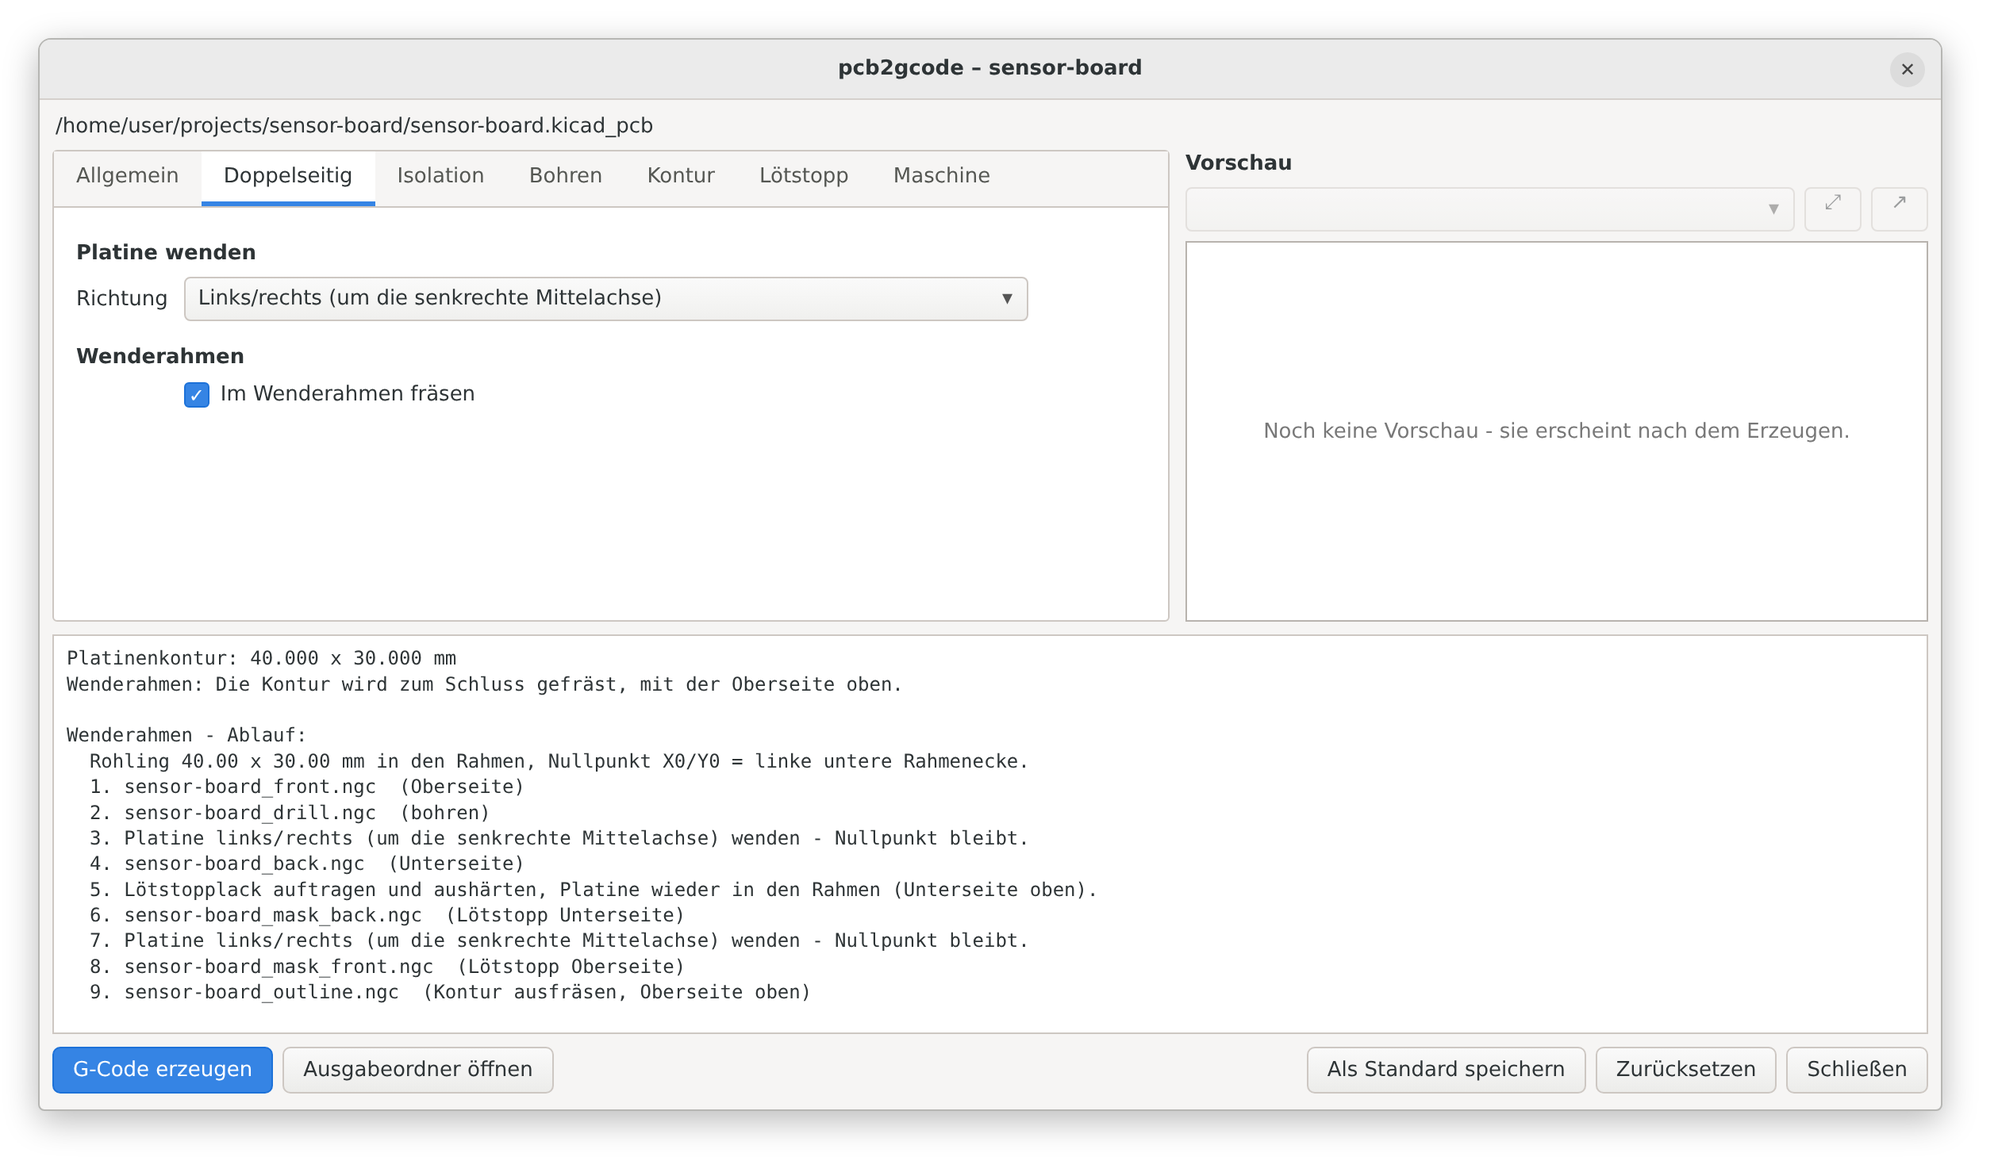
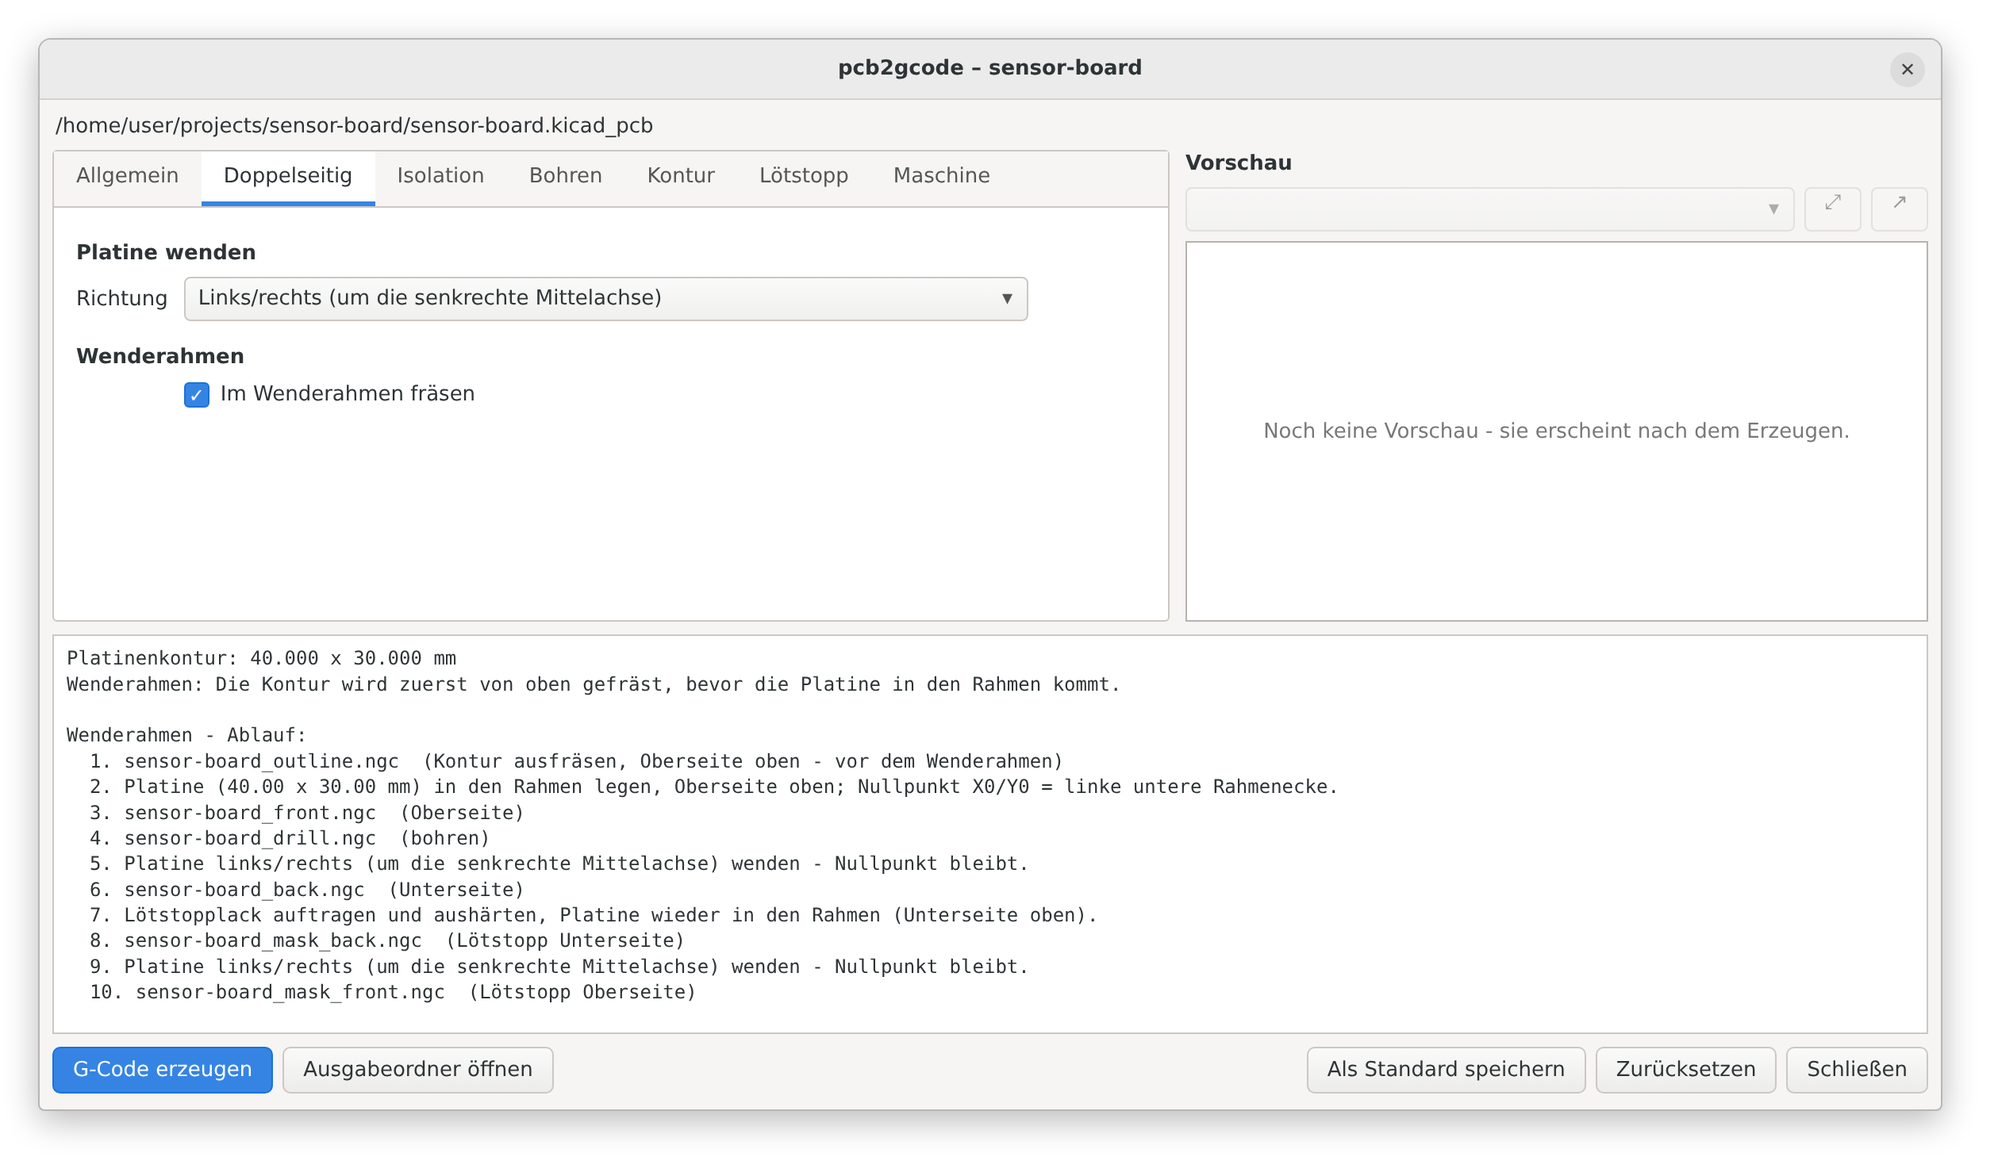
Flip frame: cut the outline first, before the board goes into the frame
The board is cut out of a larger blank from the top, then put into the
frame top side up; copper, holes and solder mask follow as before.

Claude-Session: https://claude.ai/code/session_01PpFE8sBd2hR1uK4Xvk6eWU

Changed region(s): [[0.062, 0.6204, 0.6505, 0.8685], [0.2168, 0.5583, 0.4337, 0.5893], [0.4647, 0.5583, 0.5576, 0.5893]]

diff --git a/plugin/kicad_pcb2gcode/job.py b/plugin/kicad_pcb2gcode/job.py
@@ -330,33 +330,13 @@ def prepare_inputs(req: JobRequest, log: Log) -> "tuple[Inputs, str, Dict[str, O
             mask_inputs = None
 
     if g.frame_mode and inputs.outline:
-        inputs.cut_side = frame_final_side(inputs, mask_inputs)
-        log(tr("Flip frame: the outline is cut last, with the {} up.",
-               "Wenderahmen: Die Kontur wird zum Schluss gefräst, mit der {} oben.").format(_side_name(inputs.cut_side)))
+        # The outline comes first: the board is cut out of the blank, from the
+        # top, before it goes into the frame.
+        inputs.cut_side = "front"
+        log(tr("Flip frame: the outline is cut first, from the top, before the board goes into the frame.",
+               "Wenderahmen: Die Kontur wird zuerst von oben gefräst, bevor die Platine in den Rahmen kommt."))
 
     return inputs, chosen, {"npth": npth_inputs, "mask": mask_inputs}
-
-
-def _side_name(side: str) -> str:
-    return tr("top side", "Oberseite") if side == "front" else tr("bottom side", "Unterseite")
-
-
-def _mask_order(inputs: Inputs, mask_inputs: Optional[Inputs]) -> List[str]:
-    """Mask sides in flip-frame order: the board comes back into the frame
-    the way it left the machine, so after milling the bottom it starts there."""
-    if mask_inputs is None:
-        return []
-    order = ["back", "front"] if inputs.back else ["front", "back"]
-    return [side for side in order if getattr(mask_inputs, side)]
-
-
-def frame_final_side(inputs: Inputs, mask_inputs: Optional[Inputs]) -> str:
-    """Side facing up in the flip frame after copper, holes and solder mask -
-    the outline is cut from there, so the board is not turned once more."""
-    masks = _mask_order(inputs, mask_inputs)
-    if masks:
-        return masks[-1]
-    return "back" if inputs.back else "front"
 
 
 def _job_name(path: str) -> str:
@@ -371,7 +351,8 @@ def _job_name(path: str) -> str:
 def frame_steps(files: List[str], inputs: Inputs, flip_axis: str) -> List[str]:
     """Operator instructions for the flip frame, in machining order.
 
-    Copper and holes first. The solder mask is applied afterwards; the board
+    The outline is cut first, out of a larger blank, before the board goes
+    into the frame. Then copper and holes. The solder mask is applied afterwards; the board
     goes back into the frame with the bottom up (as it came off the machine),
     the bottom openings are milled, the board is turned and the top openings
     follow."""
@@ -381,13 +362,22 @@ def frame_steps(files: List[str], inputs: Inputs, flip_axis: str) -> List[str]:
     flip = (tr("left/right (about the vertical centre line)", "links/rechts (um die senkrechte Mittelachse)")
             if flip_axis == "leftright" else
             tr("top/bottom (about the horizontal centre line)", "oben/unten (um die waagerechte Mittelachse)"))
-    lines = [
-        tr("Flip frame - order of work:", "Wenderahmen - Ablauf:"),
-        tr("  Blank {} in the frame, origin X0/Y0 = lower-left corner of the frame.",
-           "  Rohling {} in den Rahmen, Nullpunkt X0/Y0 = linke untere Rahmenecke.").format(size),
-    ]
-    first = [j for j in ("front", "drill", "milldrill", "npth_drill", "npth_milldrill") if j in by_job]
+    lines = [tr("Flip frame - order of work:", "Wenderahmen - Ablauf:")]
     n = 1
+    if "outline" in by_job:
+        # cut the board out of the blank first, then it goes into the frame
+        lines.append("  {}. {}  ({})".format(n, by_job["outline"], tr(
+            "cut the outline, top side up - before the flip frame",
+            "Kontur ausfräsen, Oberseite oben - vor dem Wenderahmen")))
+        n += 1
+        lines.append("  {}. {}".format(n, tr(
+            "Put the board ({}) into the frame, top side up; origin X0/Y0 = lower-left corner of the frame.",
+            "Platine ({}) in den Rahmen legen, Oberseite oben; Nullpunkt X0/Y0 = linke untere Rahmenecke.").format(size)))
+        n += 1
+    else:
+        lines.append(tr("  Blank {} in the frame, origin X0/Y0 = lower-left corner of the frame.",
+                        "  Rohling {} in den Rahmen, Nullpunkt X0/Y0 = linke untere Rahmenecke.").format(size))
+    first = [j for j in ("front", "drill", "milldrill", "npth_drill", "npth_milldrill") if j in by_job]
     split = "npth_drill" in by_job or "npth_milldrill" in by_job
     for job in first:
         label = {"front": tr("top side", "Oberseite"),
@@ -403,7 +393,6 @@ def frame_steps(files: List[str], inputs: Inputs, flip_axis: str) -> List[str]:
         n += 1
         lines.append("  {}. {}  ({})".format(n, by_job["back"], tr("bottom side", "Unterseite")))
         n += 1
-    up = "back" if "back" in by_job else "front"
     if "mask_front" in by_job or "mask_back" in by_job:
         bottom_up = "back" in by_job
         order = ["mask_back", "mask_front"] if bottom_up else ["mask_front", "mask_back"]
@@ -416,7 +405,6 @@ def frame_steps(files: List[str], inputs: Inputs, flip_axis: str) -> List[str]:
             "Lötstopplack auftragen und aushärten, Platine wieder in den Rahmen ({} oben).").format(
                 tr("bottom", "Unterseite") if first_up == "back" else tr("top", "Oberseite"))))
         n += 1
-        up = present[-1].split("_", 1)[1]
         for i, job in enumerate(present):
             if i == 1:
                 lines.append("  {}. {}".format(n, tr("Turn the board over {} - keep the origin.",
@@ -424,15 +412,6 @@ def frame_steps(files: List[str], inputs: Inputs, flip_axis: str) -> List[str]:
                 n += 1
             lines.append("  {}. {}  ({})".format(n, by_job[job], labels[job]))
             n += 1
-    if "outline" in by_job:
-        side = inputs.cut_side or up
-        if side != up:  # only when the files were made differently
-            lines.append("  {}. {}".format(n, tr("Turn the board over {} - keep the origin.",
-                                                "Platine {} wenden - Nullpunkt bleibt.").format(flip)))
-            n += 1
-        lines.append("  {}. {}  ({})".format(n, by_job["outline"], tr(
-            "cut the outline, {} up", "Kontur ausfräsen, {} oben").format(_side_name(side))))
-        n += 1
     return lines
 
 

diff --git a/tests/test_job.py b/tests/test_job.py
@@ -248,47 +248,34 @@ def test_flip_frame(board):
                      "my_board_mask_back.ngc", "my_board_mask_front.ngc", "my_board_outline.ngc"]
     millproject = open(result.millproject_path).read()
     assert "outline=cam/outline.gbr" in millproject
-    assert "cut-side=front" in millproject  # the top is up after the last mask step
+    assert "cut-side=front" in millproject  # cut out first, top side up
     assert "drill-side=front" in millproject
     assert "x-offset=0" in millproject and "mirror-axis=5" in millproject  # fake outline 10 x 10 mm
     steps = open(os.path.join(result.output_dir, "STEPS.txt")).read().splitlines()
     order = [line.split(".", 1)[1].strip() for line in steps if line.strip()[:2].rstrip(".").isdigit()]
-    assert order[0].startswith("my_board_front.ngc")
-    assert order[1].startswith("my_board_drill.ngc")
-    assert order[2].startswith("Turn the board over left/right")
-    assert order[3].startswith("my_board_back.ngc")
-    assert order[4].startswith("Apply and cure the solder mask") and "(bottom up)" in order[4]
-    assert order[5].startswith("my_board_mask_back.ngc")
-    assert order[6].startswith("Turn the board over left/right")
-    assert order[7].startswith("my_board_mask_front.ngc")
-    assert order[8] == "my_board_outline.ngc  (cut the outline, top side up)"
-    assert len(order) == 9
+    assert order[0] == "my_board_outline.ngc  (cut the outline, top side up - before the flip frame)"
+    assert order[1].startswith("Put the board (10.00 x 10.00 mm) into the frame, top side up")
+    assert order[2].startswith("my_board_front.ngc")
+    assert order[3].startswith("my_board_drill.ngc")
+    assert order[4].startswith("Turn the board over left/right")
+    assert order[5].startswith("my_board_back.ngc")
+    assert order[6].startswith("Apply and cure the solder mask") and "(bottom up)" in order[6]
+    assert order[7].startswith("my_board_mask_back.ngc")
+    assert order[8].startswith("Turn the board over left/right")
+    assert order[9].startswith("my_board_mask_front.ngc")
+    assert len(order) == 10
     assert any("Board outline: 10.000 x 10.000 mm" in line for line in log)
-    assert any("outline is cut last, with the top side up" in line for line in log)
+    assert any("outline is cut first, from the top" in line for line in log)
 
 
-def test_flip_frame_outline_side_follows_the_last_step(board):
-    from kicad_pcb2gcode.job import frame_final_side
-    from kicad_pcb2gcode.millproject import Inputs
-
-    both = Inputs(front="f", back="b")
-    assert frame_final_side(both, None) == "back"
-    assert frame_final_side(Inputs(front="f"), None) == "front"
-    assert frame_final_side(Inputs(back="b"), None) == "back"
-    assert frame_final_side(both, Inputs(front="mf", back="mb")) == "front"
-    assert frame_final_side(both, Inputs(front="mf")) == "front"
-    assert frame_final_side(both, Inputs(back="mb")) == "back"
-    assert frame_final_side(Inputs(front="f"), Inputs(front="mf", back="mb")) == "back"
-
+def test_flip_frame_outline_is_cut_from_the_top(board):
     s = Settings()
     s.general.frame_mode = True
     s.general.sides = "both"
+    s.outline.cut_side = "back"  # ignored in the frame
     s.mask.enabled = False
     result = run_job(request(board, s), lambda line: None)
-    assert "cut-side=back" in open(result.millproject_path).read()
-    steps = open(os.path.join(result.output_dir, "STEPS.txt")).read().splitlines()
-    assert steps[-2].strip().startswith("4. my_board_back.ngc")
-    assert steps[-1].strip() == "5. my_board_outline.ngc  (cut the outline, bottom side up)"
+    assert "cut-side=front" in open(result.millproject_path).read()
 
 
 def test_flip_frame_without_outline_cut(board):
@@ -299,6 +286,8 @@ def test_flip_frame_without_outline_cut(board):
     millproject = open(result.millproject_path).read()
     assert "outline=" not in millproject and "x-offset=" in millproject
     assert not any(f.endswith("_outline.ngc") for f in result.files)
+    steps = open(os.path.join(result.output_dir, "STEPS.txt")).read()
+    assert "Blank 10.00 x 10.00 mm in the frame" in steps
 
 
 def test_outline_defines_origin_even_when_not_cut(board):

diff --git a/plugin/kicad_pcb2gcode/form.py b/plugin/kicad_pcb2gcode/form.py
@@ -93,10 +93,10 @@ PAGES: List[Tuple[Tuple[str, str], List[Row]]] = [
         Field("general", "frame_mode", ("Mill in a flip frame", "Im Wenderahmen fräsen"), "bool",
               tip=("A frame with exactly the size of the board outline is fixed on the machine, its lower-left "
                    "corner is X0/Y0. The pre-cut blank is milled on top, drilled, turned over inside the frame "
-                   "and milled on the bottom. The outline is cut last, from the side facing up by then.",
+                   "and milled on the bottom. The outline is cut first, before the board goes into the frame.",
                    "Ein Rahmen genau in der Größe der Platinenkontur ist auf der Maschine befestigt, seine linke "
                    "untere Ecke ist X0/Y0. Der zugeschnittene Rohling wird oben gefräst, gebohrt, im Rahmen "
-                   "gewendet und unten gefräst. Die Kontur wird zum Schluss gefräst, von der Seite, die dann oben liegt.")),
+                   "gewendet und unten gefräst. Die Kontur wird zuerst gefräst, bevor die Platine in den Rahmen kommt.")),
     ]),
     (("Isolation", "Isolation"), [
         Heading(("Tool", "Werkzeug")),

diff --git a/scripts/render_previews.py b/scripts/render_previews.py
@@ -212,8 +212,8 @@ def render(lang: str) -> None:
     files = ["sensor-board_front.ngc", "sensor-board_drill.ngc", "sensor-board_back.ngc",
              "sensor-board_mask_back.ngc", "sensor-board_mask_front.ngc", "sensor-board_outline.ngc"]
     log = [tr("Board outline: {:.3f} x {:.3f} mm", "Platinenkontur: {:.3f} x {:.3f} mm").format(box.width, box.height),
-           tr("Flip frame: the outline is cut last, with the top side up.",
-              "Wenderahmen: Die Kontur wird zum Schluss gefräst, mit der Oberseite oben."), ""]
+           tr("Flip frame: the outline is cut first, from the top, before the board goes into the frame.",
+              "Wenderahmen: Die Kontur wird zuerst von oben gefräst, bevor die Platine in den Rahmen kommt."), ""]
     log += frame_steps(files, Inputs(board_box=box, cut_side="front"), "leftright")
     shots.append(("double-sided", titles.index("Double-sided"), frame, log))
 

diff --git a/plugin/kicad_pcb2gcode/__main__.py b/plugin/kicad_pcb2gcode/__main__.py
@@ -33,7 +33,7 @@ def parse_args(argv: Optional[List[str]] = None) -> argparse.Namespace:
     p.add_argument("--holes", choices=("merged", "separate", "pth", "npth"),
                    help="PTH and NPTH in one drill file, in two, or only one kind")
     p.add_argument("--frame", action="store_true",
-                   help="flip frame: corner at X0/Y0, drill from the top, cut the outline last")
+                   help="flip frame: corner at X0/Y0, drill from the top, outline cut first")
     p.add_argument("--flip", choices=("leftright", "topbottom"), help="axis the board is turned over about")
     p.add_argument("--outer-layers-only", action="store_true",
                    help="mill F.Cu/B.Cu even if inner copper layers carry copper")

diff --git a/plugin/kicad_pcb2gcode/gui.py b/plugin/kicad_pcb2gcode/gui.py
@@ -571,7 +571,7 @@ class Pcb2GcodeDialog(wx.Dialog):
         voronoi = self.controls[("isolation", "voronoi")][1].GetValue()
         self.controls[("isolation", "preserve_thermal_reliefs")][1].Enable(bool(voronoi))
         # The flip frame fixes these: corner at X0/Y0, drilling from the top,
-        # outline cut last from the side that is up by then.
+        # outline cut first from the top.
         frame = bool(self.controls[("general", "frame_mode")][1].GetValue())
         for key in (("general", "zero_start"), ("drill", "drill_side"), ("outline", "cut_side")):
             self.controls[key][1].Enable(not frame)

diff --git a/plugin/kicad_pcb2gcode/settings.py b/plugin/kicad_pcb2gcode/settings.py
@@ -53,7 +53,7 @@ class GeneralSettings:
     flip_axis: str = "leftright"
     # Flip frame: a pocket of exactly the outline size is fixed on the machine
     # and the pre-cut blank is turned over inside it. Holes are drilled from
-    # the top before turning, the outline is cut last.
+    # the top before turning, the outline is cut first.
     frame_mode: bool = False
     zsafe: float = 5.0
     zchange: float = 10.0

diff --git a/README.de.md b/README.de.md
@@ -165,34 +165,33 @@ Unterseite in den negativen X-Bereich.
 
 Für doppelseitige Platinen ohne Passstifte: Einen Rahmen (oder eine
 ausgefräste Tasche) genau in der Größe der Platinenkontur auf der Maschine
-befestigen und X0/Y0 auf seine linke untere Ecke setzen. Den Rohling auf
-dieselbe Größe zuschneiden. Mit **Im Wenderahmen fräsen** (Reiter
+befestigen und X0/Y0 auf seine linke untere Ecke setzen. Mit **Im
+Wenderahmen fräsen** (Reiter
 **Doppelseitig**)
 
 * werden alle Löcher von oben gebohrt, vor dem Wenden,
-* wird die Kontur zum Schluss gefräst, von der Seite, die dann oben liegt
-  (kein zusätzliches Wenden; abschaltbar mit **Kontur ausfräsen**),
+* wird die Kontur zuerst von oben aus einem größeren Rohling gefräst – bevor
+  die Platine in den Rahmen kommt (Häkchen **Kontur ausfräsen** weg, wenn der
+  Rohling schon seine Endgröße hat),
 * steht der Ablauf im Protokoll und in `gcode/ABLAUF.txt`:
 
 ```
-1. board_front.ngc   Oberseite
-2. board_drill.ngc   Bohren
-3. Platine im Rahmen links/rechts wenden – Nullpunkt bleibt
-4. board_back.ngc    Unterseite
-5. Lötstopplack auftragen und aushärten, Platine zurück in den Rahmen (Unterseite oben)
-6. board_mask_back.ngc
-7. Platine wenden – Nullpunkt bleibt
-8. board_mask_front.ngc
-9. board_outline.ngc  Kontur ausfräsen, Oberseite oben
+1. board_outline.ngc  Kontur ausfräsen – vor dem Wenderahmen
+2. Platine in den Rahmen legen, Oberseite oben
+3. board_front.ngc   Oberseite
+4. board_drill.ngc   Bohren
+5. Platine im Rahmen links/rechts wenden – Nullpunkt bleibt
+6. board_back.ngc    Unterseite
+7. Lötstopplack auftragen und aushärten, Platine zurück in den Rahmen (Unterseite oben)
+8. board_mask_back.ngc
+9. Platine wenden – Nullpunkt bleibt
+10. board_mask_front.ngc
 ```
 
 <img src="docs/images/dialog-double-sided-de.png" width="60%" alt="Reiter Doppelseitig mit dem Ablauf im Protokoll">
 
 Bei nicht rechteckigen Platinen hat der Rahmen die Größe des umschließenden
-Rechtecks der Kontur. Der Konturfräser läuft außen an der Konturlinie entlang,
-also direkt an der Rahmenkante: Bei einem Rahmen genau in Platinengröße fräst
-er um einen Fräserdurchmesser in den Rahmenrand – den Rahmen deshalb aus
-Opfermaterial machen oder die Haltestege nutzen. Die Ausrichtung folgt pcb2gcodes Koordinatenformeln, die
+Rechtecks der Kontur. Die Ausrichtung folgt pcb2gcodes Koordinatenformeln, die
 `tests/test_placement.py` nachbildet; trotzdem zuerst an einem Reststück
 prüfen.
 

diff --git a/README.md b/README.md
@@ -156,34 +156,33 @@ of one cutter diameter and mirrors the bottom into negative X.
 
 For double-sided boards without alignment pins: fix a frame (or mill a
 pocket) with exactly the size of the board outline on the machine and set
-X0/Y0 to its lower-left corner. Cut the blank to the same size. With
+X0/Y0 to its lower-left corner. With
 **Mill in a flip frame** (tab **Double-sided**) the plugin
 
 * drills all holes from the top, before turning over,
-* cuts the outline last, from the side facing up by then (no extra turn;
-  untick **Cut board outline** to skip it),
+* cuts the outline first, from the top, out of a larger blank – before the
+  board goes into the frame (untick **Cut board outline** if the blank
+  already has its final size),
 * writes the order of work to the log and to `gcode/STEPS.txt`
   (`ABLAUF.txt` in German):
 
 ```
-1. board_front.ngc   top side
-2. board_drill.ngc   drill
-3. turn the board over left/right in the frame – keep the origin
-4. board_back.ngc    bottom side
-5. apply and cure the solder mask, board back into the frame (bottom up)
-6. board_mask_back.ngc
-7. turn the board over – keep the origin
-8. board_mask_front.ngc
-9. board_outline.ngc  cut the outline, top side up
+1. board_outline.ngc  cut the outline – before the flip frame
+2. put the board into the frame, top side up
+3. board_front.ngc   top side
+4. board_drill.ngc   drill
+5. turn the board over left/right in the frame – keep the origin
+6. board_back.ngc    bottom side
+7. apply and cure the solder mask, board back into the frame (bottom up)
+8. board_mask_back.ngc
+9. turn the board over – keep the origin
+10. board_mask_front.ngc
 ```
 
 <img src="docs/images/dialog-double-sided-en.png" width="60%" alt="Double-sided tab with the order of work in the log">
 
 For non-rectangular boards the frame has the size of the outline's bounding
-rectangle. The outline cutter runs just outside the outline line, that is
-right along the frame edge: in a frame of exactly the board size it cuts one
-cutter diameter into the frame wall, so make the frame from sacrificial
-material or rely on the holding tabs. The alignment follows pcb2gcode's coordinate formulas, which
+rectangle. The alignment follows pcb2gcode's coordinate formulas, which
 `tests/test_placement.py` reproduces; still verify on a scrap piece first.
 
 ### Solder mask
